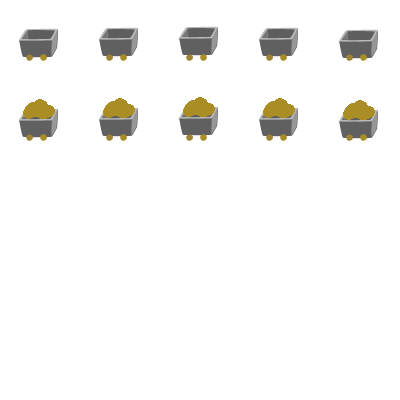
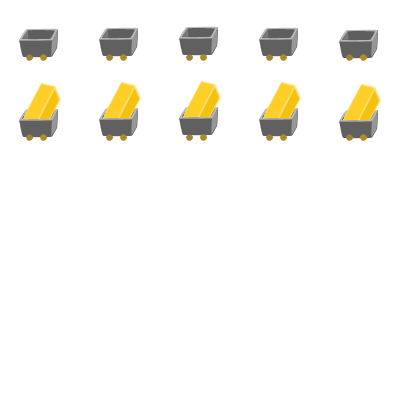
added gold

diff --git a/game/prefabs/ending.js b/game/prefabs/ending.js
@@ -5,16 +5,16 @@ var Ending = function(game) {
 
   this.add(this.game.add.image(0, 295, 'end', 'floor_right'));
 
-  this.minigame = this.game.add.sprite(100,200,'cart');
-
-  this.add(this.minigame);
+  this.add(this.game.add.image(100, 300, 'end', 'gold_pile'));
+  //this.minigame = this.game.add.sprite(100,200,'cart');
+  //this.add(this.minigame);
 };
 
 Ending.prototype = Object.create(Phaser.Group.prototype);
 Ending.prototype.constructor = Ending;
 
 Ending.prototype.update = function() {
-  
+
 };
 
 Ending.prototype.start = function(){
